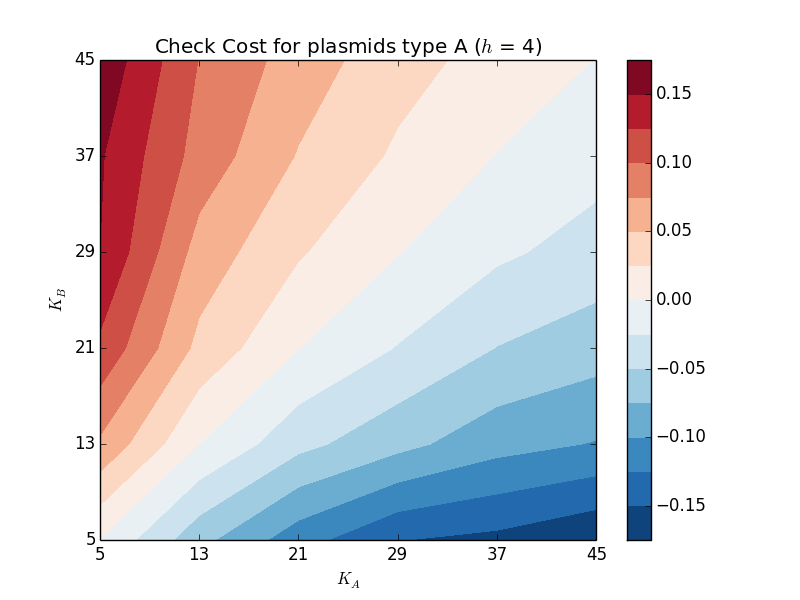
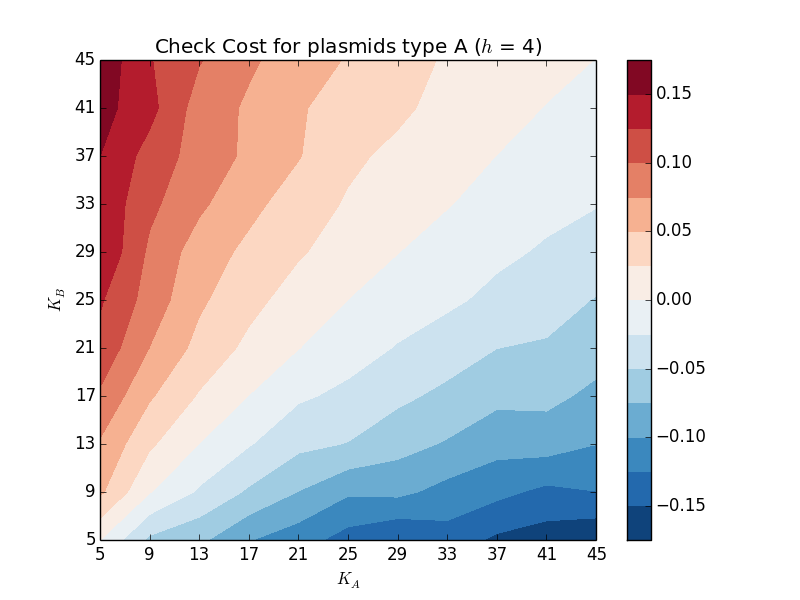
F_Fit

diff --git a/fit_contour.py b/fit_contour.py
@@ -14,23 +14,43 @@ def fun(x,y,a,b):
 def fun1(data,a,b):
     return a*np.log(data[0]) - b*np.log(data[1])
 
-#Normal
+#Short
+#kh3 = np.array([1,2,3])
+
+#Medium
 #kh2 = np.array([2,6,10,14,18])
 #kh3 = np.array([4,10,16,22,28,34])
 #kh4 = np.array([5,13,21,29,37,45])
 
-#Long
+#Long Sample
 kh2 = np.array([2,4,6,8,10,12,14,16,18])
 kh3 = np.array([4,7,10,13,16,19,22,25,28,31,34])
 kh4 = np.array([5,9,13,17,21,25,29,33,37,41,45])
 
-#Short
-#kh3 = np.array([1,2,3])
+#Rest
+kh23 = np.array([3,6,9,12,15,18,21,24])
+kh27 = np.array([3,6,9,12,15,18,21,24,27,30])
+kh33 = np.array([4,8,12,16,20,24,28,32,36,40])
+kh37 = np.array([4,10,16,22,28,34,40,46])
+kh43 = np.array([5,10,15,20,25,30,35,40,45,50])
+kh47 = np.array([5,12,19,26,33,40,47,54])
+kh5 = np.array([6,12,18,24,30,36,42,48,54])
 
+def barRange(st,hop):
+    s = st
+    ini = s
+    L = []
+    br = True
+    while br == True:
+        if s == (-1*ini):
+            br = False
+        L.append(s)
+        s = round(s+hop,3)
+    return L
 
 def fitCC(h):
     #First column of cost matrix
-    ColIni = np.genfromtxt("Results/DataCost_"+str(h)+"_W.txt", delimiter=",",usecols=0)
+    ColIni = np.genfromtxt("Results/DataCost_"+str(h)+".txt", delimiter=",",usecols=0)
 
     #The cost matrix in nxn, so #columns = #rows
     #Lenght of first colum
@@ -43,13 +63,13 @@ def fitCC(h):
         #KB
         KKB = kh2
         kh = kh2
-    elif h==23:
+    elif h==2.3:
         #KA
         KKA = kh23
         #KB
         KKB = kh23
         kh = kh23
-    elif h==27:
+    elif h==2.7:
         #KA
         KKA = kh27
         #KB
@@ -61,19 +81,49 @@ def fitCC(h):
         #KB
         KKB = kh3
         kh = kh3
+    elif h==3.3:
+        #KA
+        KKA = kh33
+        #KB
+        KKB = kh33
+        kh = kh33
+    elif h==3.7:
+        #KA
+        KKA = kh37
+        #KB
+        KKB = kh37
+        kh = kh37
     elif h==4:
         #KA
         KKA = kh4
         #KB
         KKB = kh4
         kh = kh4
+    elif h==4.3:
+        #KA
+        KKA = kh43
+        #KB
+        KKB = kh43
+        kh = kh43
+    elif h==4.7:
+        #KA
+        KKA = kh47
+        #KB
+        KKB = kh47
+        kh = kh47
+    elif h==5:
+        #KA
+        KKA = kh5
+        #KB
+        KKB = kh5
+        kh = kh5
 
 
     #Generate grid - KKA is Y and KKB is X
     X, Y = np.meshgrid(KKA, KKB)
 
     for i in range(1,n):
-        Col = np.genfromtxt("Results/DataCost_"+str(h)+"_W.txt", delimiter=",",usecols=i)
+        Col = np.genfromtxt("Results/DataCost_"+str(h)+".txt", delimiter=",",usecols=i)
         ColIni = np.append(ColIni, Col)
 
     Ans = np.zeros((n,n))
@@ -130,21 +180,35 @@ def fitCC(h):
 
     if h ==2:
         #Med and long
-        L =[-0.056,-0.048,-0.04,-0.032,-0.024,-0.016,-0.008,0.0,0.008,0.016,0.024,0.032,0.04,0.048,0.056]
+        L = barRange(-0.056,0.008)
+    elif h ==2.3:
+        L = barRange(-0.064,0.008)
+    elif h ==2.7:
+        L = barRange(-0.09,0.01)
     elif h ==3:
-        #Med
-        #L = 16
-        #Long
-        L = [-0.105,-0.09,-0.075,-0.06,-0.045,-0.03,-0.015,0.0,0.015,0.03,0.045,0.06,0.075,0.09,0.105]
         #Short
-        #L = [-0.04,-0.035,-0.03,-0.025,-0.02,-0.015,-0.01,-0.005,0.0,0.005,0.01,0.015,0.02,0.025,0.03,0.035,0.04]
+        #L = barRange(-0.04,0.005)
+
+        #Med and long
+        L = barRange(-0.105,0.015)
+    elif h ==3.3:
+        L = barRange(-0.12,0.015)
+    elif h ==3.7:
+        L = barRange(-0.16,0.02)
     elif h ==4:
         #Med
-        #L = [-0.175,-0.15,-0.125,-0.1,-0.075,-0.05,-0.025,0.0,0.025,0.05,0.075,0.1,0.125,0.15,0.175]
-        #Long
-        L=[-0.18,-0.16,-0.14,-0.12,-0.1,-0.08,-0.06,-0.04,-0.02,0.0,0.02,0.04,0.06,0.08,0.1,0.12,0.14,0.16,0.18]
+        #L = barRange(-0.175,0.025)
 
-    """
+        #Long sample
+        L = barRange(-0.18,0.02)
+    elif h ==4.3:
+        L = barRange(-0.2,0.025)
+    elif h ==4.7:
+        L = barRange(-0.24,0.03)
+    elif h ==5:
+        L = barRange(-0.27,0.03)
+
+
     plt.title("Fit Cost for plasmids type A ($h$ = "+str(h)+")")
     plt.contourf(X, Y, Fi, L, cmap="RdBu_r")
     plt.colorbar()
@@ -152,7 +216,7 @@ def fitCC(h):
     plt.ylabel("$K_{B}$")
     plt.xticks(kh)
     plt.yticks(kh)
-    plt.savefig("Results/Fit/Fit_"+str(h)+"_W.png")
+    plt.savefig("Results/Fit/Fit_"+str(h)+".png")
     #plt.show()
     plt.clf()
 
@@ -163,14 +227,21 @@ def fitCC(h):
     plt.ylabel("$K_{B}$")
     plt.xticks(kh)
     plt.yticks(kh)
-    plt.savefig("Results/Fit/Check_"+str(h)+"_W.png")
+    plt.savefig("Results/Fit/Check_"+str(h)+".png")
     #plt.show()
     plt.clf()
-    """
 
-fitCC(2)
-fitCC(3)
-fitCC(4)
+
+#fitCC(2)
+#fitCC(2.3)
+#fitCC(2.7)
+#fitCC(3)
+#fitCC(3.3)
+#fitCC(3.7)
+#fitCC(4)
+#fitCC(4.3)
+#fitCC(4.7)
+#fitCC(5)
 
 
 #Fit of ctes of fit function
@@ -178,12 +249,28 @@ def Fit_Cte():
     HS = np.genfromtxt("Results/Fit/CCte.csv", delimiter=",",usecols=0)
     CV = np.genfromtxt("Results/Fit/CCte.csv", delimiter=",",usecols=1)
 
+    def funA(x,m,c):
+        return m*x + c
+
+    #Ph: parameters obtained of fit
+    #Ph[0]: slope, Ph[1]: y-intercept
+    #coh: covariance of parameters
+    #curve_fit(function, xdata, ydata)
+    Ph1, coh1 = curve_fit(funA, HS, CV)
+    print Ph1, coh1
+
     plt.title("Fit Cost Constant ($A$) vs Hill Coefficient ($h$)")
-    plt.plot(HS,CV,c="r")
+    plt.plot(HS,CV,c="r",label="Data")
+
+    plt.plot(HS,funA(HS,Ph1[0],Ph1[1]),c="g",label="Lineal Fit")
+    plt.plot(0,0,c="white",label="$A$="+str(round(Ph1[0],3))+"$h$"+str(round(Ph1[1],3)))
+
     plt.xlabel("Hill Coefficient ($h$)")
     plt.ylabel("Fit cost constant ($A$)")
     plt.xticks(HS)
+    plt.xlim((2,5))
+    plt.legend(loc=2,fontsize="small")
     plt.savefig("Results/Fit/Cte_Fit.png")
     plt.clf()
 
-#Fit_Cte()
+Fit_Cte()

diff --git a/simu.py b/simu.py
@@ -453,7 +453,7 @@ def repetitionHist(rounds, rep, cc, inA, inB, h, kA, kB):
         plt.xlabel("Events")
         plt.ylabel("Normalized amount of plasmids ($\eta$)")
         plt.legend(loc = 4, fontsize = "x-small")
-        plt.savefig("SimulationGraphs/Simu_h"+str(h)+"/Graph_" + str(kA) + "_" + str(kB) + "_" + str(int(h)) + ".png")
+        plt.savefig("SimulationGraphs/Simu_h"+str(h)+"/Graph_" + str(kA) + "_" + str(kB) + "_" + str(h) + ".png")
         plt.clf()
 
     #Return

diff --git a/draftbook.py b/draftbook.py
@@ -66,3 +66,29 @@ print np.linspace(5,54,8)
 print "\n h = 5"
 #h=5
 print np.linspace(6,54,9)
+
+s = -0.056
+ini = s
+L = []
+br = True
+while br == True:
+    if s == (-1*ini):
+        br = False
+    L.append(s)
+    s = s+0.008
+
+print L
+
+def barRange(st,hop):
+    s = st
+    ini = s
+    L = []
+    br = True
+    while br == True:
+        if s == (-1*ini):
+            br = False
+        L.append(s)
+        s = round(s+hop,3)
+    return L
+
+print barRange(-0.27,0.03)
